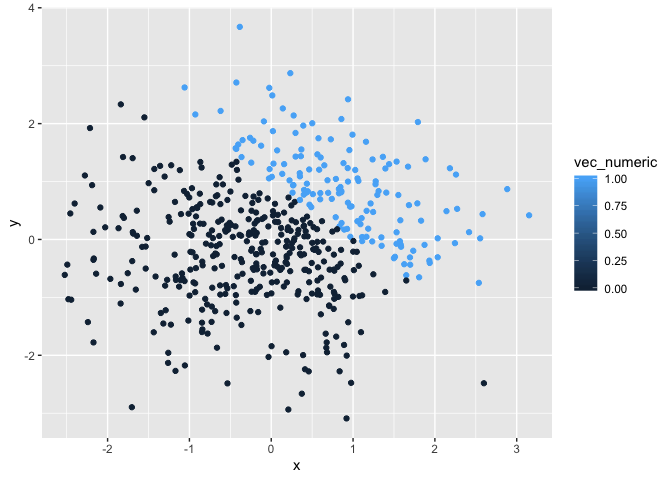
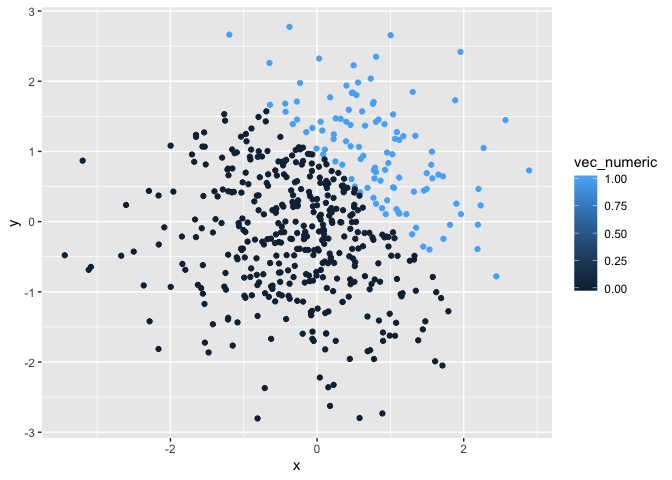
Add text description for problem 1.

diff --git a/p8105_hw1_xh2395.md b/p8105_hw1_xh2395.md
@@ -5,6 +5,9 @@ Xin He
 
 ## problem 1
 
+**Create a data frame as
+    required:**
+
 ``` r
 library(tidyverse)
 ```
@@ -21,82 +24,101 @@ library(tidyverse)
     ## ✖ dplyr::lag()    masks stats::lag()
 
 ``` r
-hw1_df = tibble(
+problem1_df = tibble(
   vec_numeric = rnorm(8, mean = 0, sd = 1),
   vec_logical = vec_numeric > 0,
   vec_char = character(length = 8),
   vec_factor = factor(vec_char, levels = c("a", "b", "c"))
 )
-
-mean(pull(hw1_df, vec_numeric))
 ```
 
-    ## [1] -0.1478798
+**Take the mean of each variable in the data
+    frame:**
 
 ``` r
-mean(pull(hw1_df, vec_logical))
+mean(pull(problem1_df, vec_numeric))
 ```
 
-    ## [1] 0.375
+    ## [1] 0.2372016
 
 ``` r
-mean(pull(hw1_df, vec_char))
+mean(pull(problem1_df, vec_logical))
 ```
 
-    ## Warning in mean.default(pull(hw1_df, vec_char)): argument is not numeric or
-    ## logical: returning NA
+    ## [1] 0.625
+
+``` r
+mean(pull(problem1_df, vec_char))
+```
+
+    ## Warning in mean.default(pull(problem1_df, vec_char)): argument is not
+    ## numeric or logical: returning NA
 
     ## [1] NA
 
 ``` r
-mean(pull(hw1_df, vec_factor))
+mean(pull(problem1_df, vec_factor))
 ```
 
-    ## Warning in mean.default(pull(hw1_df, vec_factor)): argument is not numeric
-    ## or logical: returning NA
+    ## Warning in mean.default(pull(problem1_df, vec_factor)): argument is not
+    ## numeric or logical: returning NA
 
     ## [1] NA
 
+The mean of vec\_numeric and vec\_logical works. However, the mean of
+vec\_char and vec\_factor doesn’t work.
+
+**Convert variables from one type to another:**
+
 ``` r
-as.numeric(pull(hw1_df, vec_logical))
+as.numeric(pull(problem1_df, vec_logical))
 ```
 
-    ## [1] 1 0 1 0 0 1 0 0
+    ## [1] 0 1 1 0 1 0 1 1
 
 ``` r
-as.numeric(pull(hw1_df, vec_char))
+as.numeric(pull(problem1_df, vec_char))
 ```
 
     ## [1] NA NA NA NA NA NA NA NA
 
 ``` r
-as.numeric(pull(hw1_df, vec_factor))
+as.numeric(pull(problem1_df, vec_factor))
 ```
 
     ## [1] NA NA NA NA NA NA NA NA
 
+After convert the logical, character, and factor variables to numeric
+variables, the logical variable shows as 0 or 1, the character variable
+shows as NA, the factor variable also shows as NA. This helps explain
+why the mean of vec\_numeric and vec\_logical works but the mean of
+vec\_char and vec\_factor doesn’t work.
+
+**Convert and
+multiply:**
+
 ``` r
-as.numeric(pull(hw1_df, vec_logical))*pull(hw1_df, vec_numeric)
+as.numeric(pull(problem1_df, vec_logical))*pull(problem1_df, vec_numeric)
 ```
 
-    ## [1] 0.1227550 0.0000000 0.1637931 0.0000000 0.0000000 0.1850498 0.0000000
-    ## [8] 0.0000000
+    ## [1] 0.00000000 0.69574679 0.95940113 0.00000000 0.44098534 0.00000000
+    ## [7] 0.05438621 0.64839411
 
 ``` r
-as.factor(pull(hw1_df, vec_logical))*pull(hw1_df, vec_numeric)
+as.factor(pull(problem1_df, vec_logical))*pull(problem1_df, vec_numeric)
 ```
 
-    ## Warning in Ops.factor(as.factor(pull(hw1_df, vec_logical)), pull(hw1_df, :
-    ## '*' not meaningful for factors
+    ## Warning in Ops.factor(as.factor(pull(problem1_df, vec_logical)),
+    ## pull(problem1_df, : '*' not meaningful for factors
 
     ## [1] NA NA NA NA NA NA NA NA
 
 ``` r
-as.numeric(as.factor(pull(hw1_df, vec_logical)))*pull(hw1_df, vec_numeric)
+as.numeric(as.factor(pull(problem1_df, vec_logical)))*pull(problem1_df, vec_numeric)
 ```
 
-    ## [1]  0.2455100 -0.4468150  0.3275862 -0.3212518 -0.5062174  0.3700996
-    ## [7] -0.2284588 -0.1518936
+    ## [1] -0.49640928  1.39149357  1.91880227 -0.32491947  0.88197067 -0.07997219
+    ## [7]  0.10877243  1.29678823
 
 ## problem 2
 
@@ -112,20 +134,20 @@ problem2_df = tibble(
 
 The size of the dataset is 500 and 5,
 
-The mean of x is 0.0217555,
+The mean of x is -0.0654739,
 
-The median of x is0.0620606,
+The median of x is-0.0775422,
 
-The standard deviation of x is 1.0270935,
+The standard deviation of x is 1.0097992,
 
 The proportion of cases for which x + y \> 1 is
-0.294.
+0.218.
 
 ``` r
 ggplot(problem2_df, aes(x = x, y = y, color = vec_logical)) + geom_point()
 ```
 
-![](p8105_hw1_xh2395_files/figure-gfm/unnamed-chunk-3-1.png)<!-- -->
+![](p8105_hw1_xh2395_files/figure-gfm/unnamed-chunk-2-1.png)<!-- -->
 
 ``` r
 ggsave("firstplot.png")
@@ -137,10 +159,10 @@ ggsave("firstplot.png")
 ggplot(problem2_df, aes(x = x, y = y, color = vec_numeric)) + geom_point()
 ```
 
-![](p8105_hw1_xh2395_files/figure-gfm/unnamed-chunk-3-2.png)<!-- -->
+![](p8105_hw1_xh2395_files/figure-gfm/unnamed-chunk-2-2.png)<!-- -->
 
 ``` r
 ggplot(problem2_df, aes(x = x, y = y, color = vec_factor)) + geom_point()
 ```
 
-![](p8105_hw1_xh2395_files/figure-gfm/unnamed-chunk-3-3.png)<!-- -->
+![](p8105_hw1_xh2395_files/figure-gfm/unnamed-chunk-2-3.png)<!-- -->
